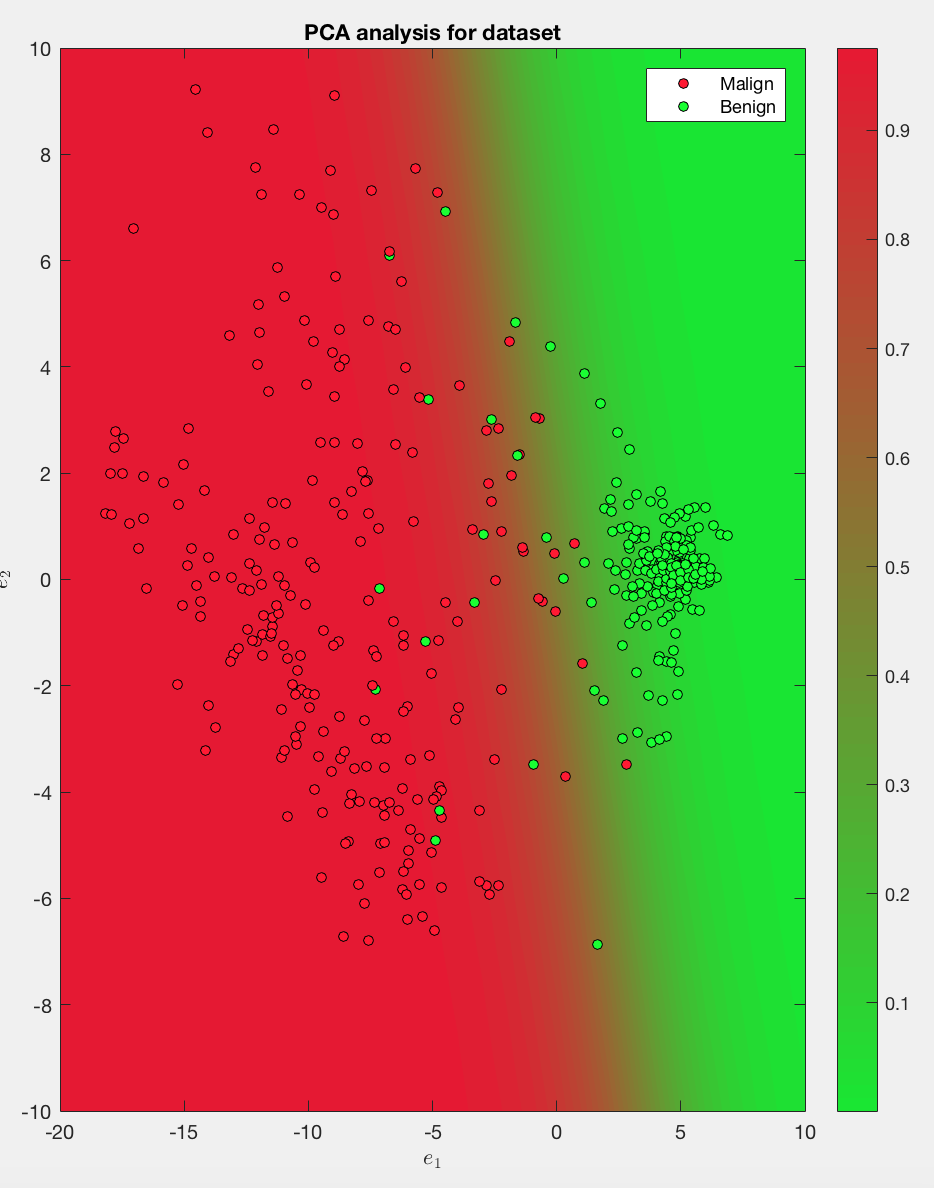
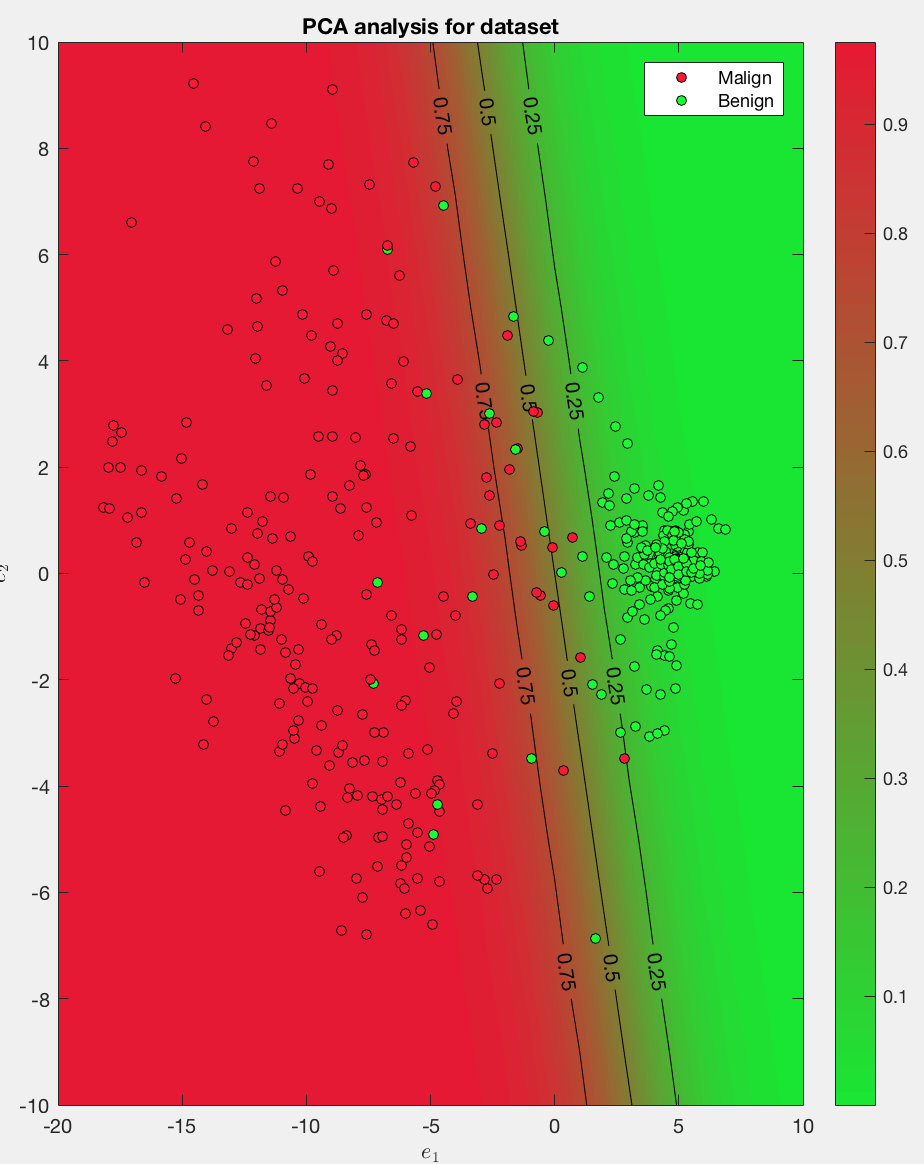
Rewrites some figure

diff --git a/utils/visualize_solution.m b/utils/visualize_solution.m
@@ -32,7 +32,7 @@ x2 = [-10:10];
 sig = @(x,y) 1./(1+exp(-(proj_w(1).*x + proj_w(2).*y)));
 Z = sig(X,Y);
 map = ([ 0.1:0.01:0.9; 0.9:-0.01:0.1; 0.2*ones(1,81)])';
-subplot(1,2,2); contourf(X,Y,Z,40,'LineStyle','none'); colormap(map); colorbar; hold on; 
+subplot(1,2,2); contourf(X,Y,Z,40,'LineStyle','none'); hold on; contour(X,Y,Z,[0.25, 0.5, 0.75],'Showtext','on','LineColor','black'); colormap(map); colorbar; hold on; 
 
 if (retained_dim==2)
     hold on;

diff --git a/main.m b/main.m
@@ -18,8 +18,8 @@ ds = readtable(strcat(dataset_name,'.csv'));
 %visualize_data(ds, is);
 
 % IRLS solution vizualisation 
-[w, lc] = irls(ds, is,'L1'); 
-visualize_solution(w(1:is), ds, is, lc, 'L1');
+[w, lc] = irls(ds, is); 
+visualize_solution(w(1:is), ds, is, lc, '');
 
 %% F-fold CV  %%TODO
 %fold

diff --git a/methods/irls.m b/methods/irls.m
@@ -19,7 +19,7 @@ loss = 0;
 loss_array = zeros(max_iter,1);
 cor_hessian = 0.0001;
 lambda_l1 = 2;
-lambda_l2 = 5;
+lambda_l2 = 10;
 
 %% init
 w = zeros(input_size+1,1); % zero init
